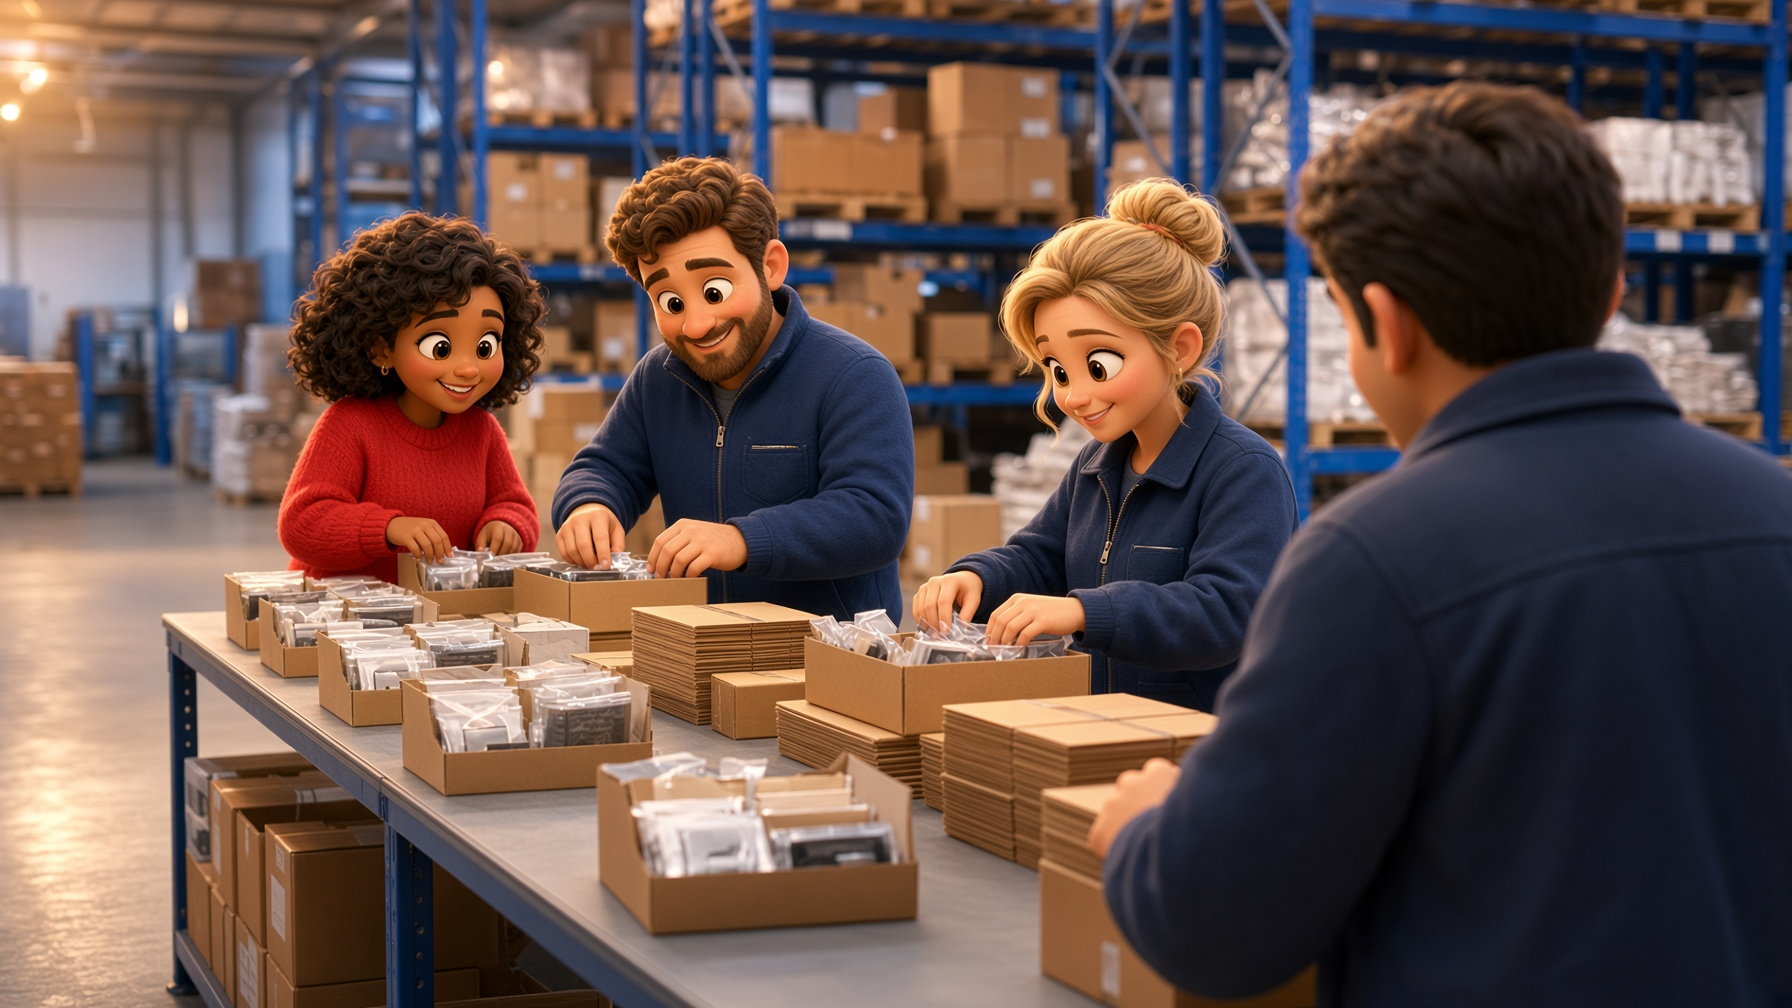
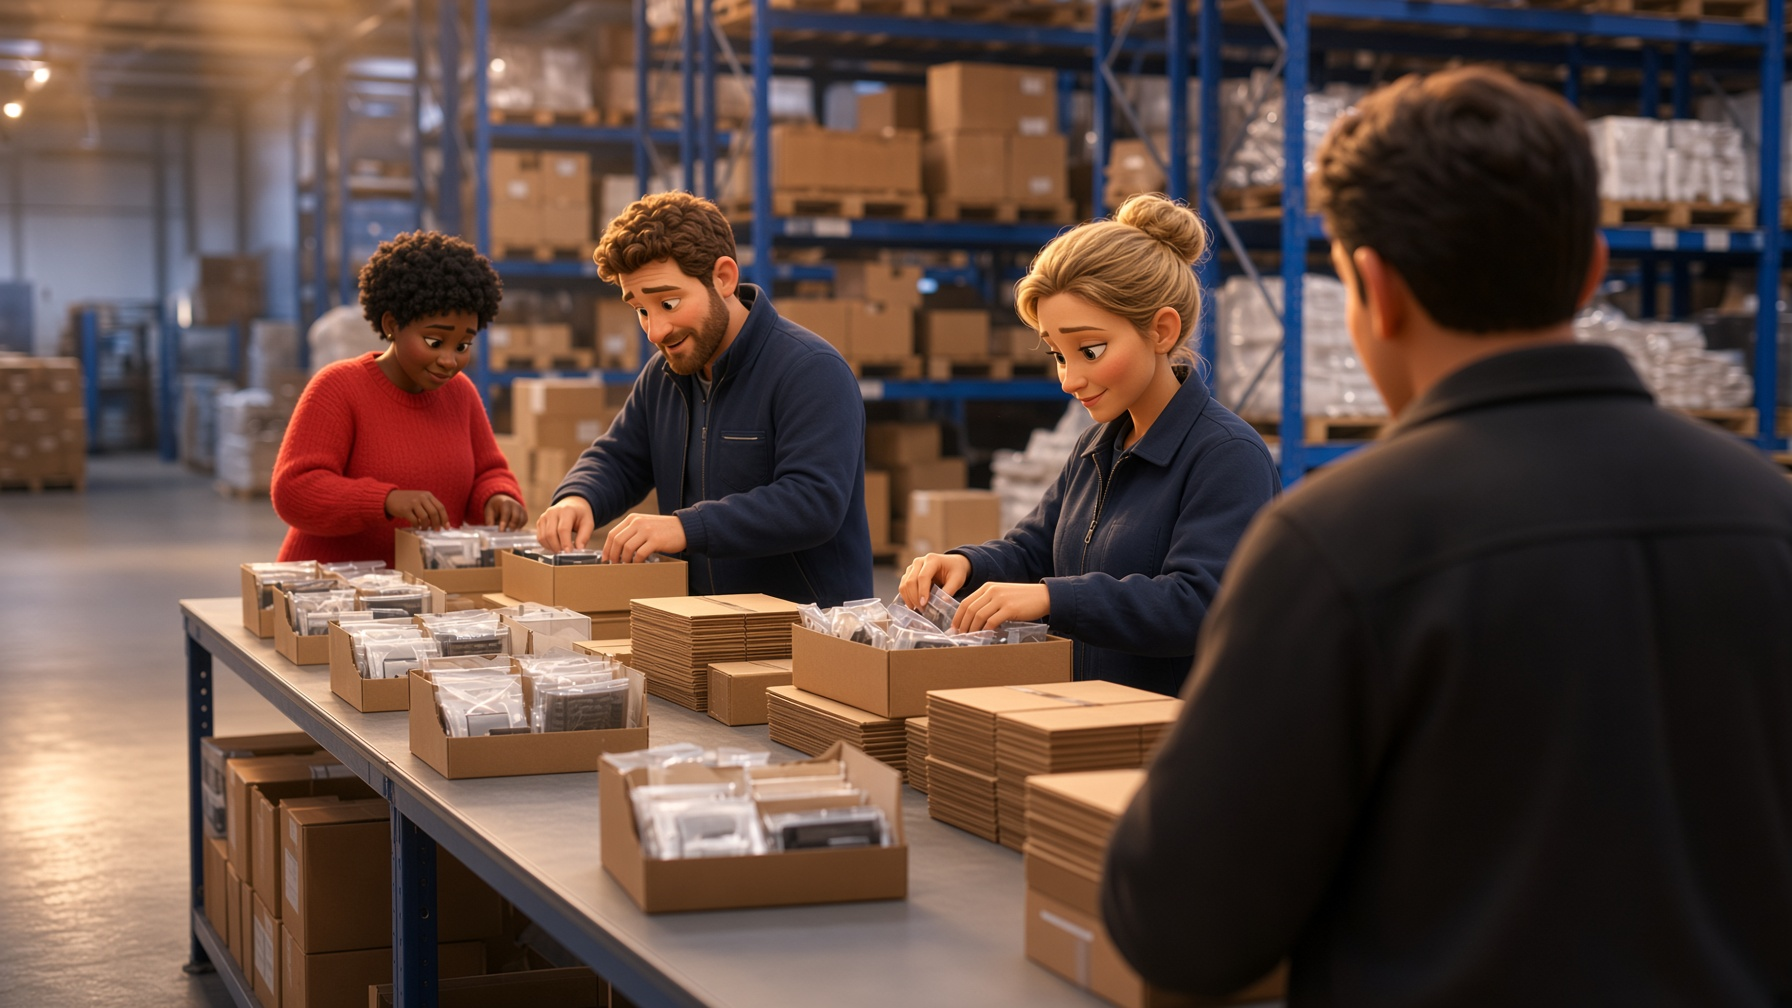
Keep the strong Pixar look on the hero only

diff --git a/src/lib/site.ts b/src/lib/site.ts
@@ -64,7 +64,7 @@ export const services: Service[] = [
     eyebrow: "Bestände steuern",
     teaser:
       "Fachboden, Palette, Blocklager – eingerichtet auf Ihre Artikelstruktur, nicht umgekehrt.",
-    image: "/images/warehouse-aisle.jpg?v=3",
+    image: "/images/warehouse-aisle.jpg?v=4",
     imageAlt: "Schmalganglager im ULD-Fulfillment-Lager im Hamburger Hafen",
     lead: "Ihre Ware liegt im Hamburger Hafen. Scanbasiert, zonenklar, jederzeit auskunftsfähig.",
     body: [
@@ -86,7 +86,7 @@ export const services: Service[] = [
     eyebrow: "Aufträge umsetzen",
     teaser:
       "Einzelstück, Karton oder Palette – kommissioniert, geprüft, versandfertig. Am selben Tag.",
-    image: "/images/pick-pack.jpg?v=3",
+    image: "/images/pick-pack.jpg?v=4",
     imageAlt:
       "Pick-and-Pack-Station: Kommissionierung und Versandfertigmachen bei ULD Hamburg",
     lead: "Jede Bestellung wird scanbasiert kommissioniert und nach Ihren Packregeln versandfertig gemacht.",
@@ -109,7 +109,7 @@ export const services: Service[] = [
     eyebrow: "Zustellung steuern",
     teaser:
       "Carrier nach Laufzeit und Kosten. Tracking zurück in Ihren Shop. Europaweit ab Hamburg.",
-    image: "/images/outbound.jpg?v=3",
+    image: "/images/outbound.jpg?v=4",
     imageAlt:
       "ULD-Fulfillment im Hamburger Hafen: Sattelzüge vor der Halle, Containerbrücken und Terminal im Hintergrund",
     lead: "Vom Packplatz an die Rampe, vom Hafen in die Fläche – mit festen Zeitfenstern und klarem Tracking.",
@@ -132,7 +132,7 @@ export const services: Service[] = [
     eyebrow: "Ware zurückführen",
     teaser:
       "Annahme, Prüfung, Wiedereinlagerung. Damit Retouren kein blinder Fleck in Ihrer Marge bleiben.",
-    image: "/images/returns.jpg?v=3",
+    image: "/images/returns.jpg?v=4",
     imageAlt: "Retourenbearbeitung bei ULD: Prüfung und Wiedereinlagerung im Hamburger Lager",
     lead: "Retouren nehmen wir strukturiert an, prüfen Zustand und Inhalt und führen einlagerungsfähige Ware kontrolliert zurück.",
     body: [
@@ -154,7 +154,7 @@ export const services: Service[] = [
     eyebrow: "Ware vorbereiten",
     teaser:
       "Umpacken, Etikettieren, Displays, Sets. Damit Kampagnen ohne Extra-Umlagerung starten.",
-    image: "/images/kitting.jpg?v=3",
+    image: "/images/kitting.jpg?v=4",
     imageAlt: "Kitting und Konfektionierung: Setbildung am Arbeitstisch im ULD-Lager Hamburg",
     lead: "Konfektionierung sitzt bei uns im Prozess – nicht in einem zweiten Lager am anderen Ende der Stadt.",
     body: [
@@ -176,7 +176,7 @@ export const services: Service[] = [
     eyebrow: "Ware hereinholen",
     teaser:
       "Container vom Terminal ins eigene Zolllager. Verzollen, wenn Sie wollen – nicht wenn der Hafen drängt.",
-    image: "/images/customs.jpg?v=3",
+    image: "/images/customs.jpg?v=4",
     imageAlt: "Containerterminal im Hamburger Hafen mit Anschluss an das ULD-Zolllager",
     lead: "Mit eigenem Zolllager im Hamburger Hafen senken Sie Terminalkosten und behalten den Takt.",
     body: [

diff --git a/src/routes/standort.tsx b/src/routes/standort.tsx
@@ -29,7 +29,7 @@ function Standort() {
         eyebrow={p.eyebrow}
         title={p.title}
         lead={interpolate(p.lead, { address: company.address, zip: company.zip })}
-        image="/images/hamburg-port.jpg?v=3"
+        image="/images/hamburg-port.jpg?v=4"
         imageAlt={p.imageAlt}
         crumbs={[
           { label: t.nav.home, href: "/" },
@@ -40,7 +40,7 @@ function Standort() {
       <section className="bg-cream">
         <div className="grid md:grid-cols-2">
           <AiImage
-            src="/images/customs.jpg?v=3"
+            src="/images/customs.jpg?v=4"
             alt={p.customsAlt}
             wrapperClassName="h-72 w-full md:h-full"
             className="size-full object-cover"
@@ -67,7 +67,7 @@ function Standort() {
         <div className="mx-auto grid max-w-7xl gap-10 px-5 md:grid-cols-2 md:px-8">
           <BrandBox size="lg">
             <AiImage
-              src="/images/inbound.jpg?v=3"
+              src="/images/inbound.jpg?v=4"
               alt={p.inboundAlt}
               className="h-80 w-full object-cover"
             />

diff --git a/src/routes/index.tsx b/src/routes/index.tsx
@@ -35,7 +35,7 @@ function Hero() {
   return (
     <section className="relative min-h-[100svh] overflow-hidden bg-navy-mid text-cream">
       <img
-        src="/images/hero-dock.jpg?v=3"
+        src="/images/hero-dock.jpg?v=4"
         alt={t.home.heroAlt}
         className="absolute inset-0 size-full object-cover object-[70%_center]"
       />
@@ -152,7 +152,7 @@ function Split() {
     <section className="bg-navy text-cream">
       <div className="grid md:grid-cols-2">
         <div className="relative min-h-[320px] md:min-h-[560px]">
-          <AiImage fill src="/images/warehouse-aisle.jpg?v=3" alt={t.home.splitAlt} />
+          <AiImage fill src="/images/warehouse-aisle.jpg?v=4" alt={t.home.splitAlt} />
         </div>
         <div className="relative flex flex-col justify-center overflow-hidden px-5 py-16 md:px-16 md:py-24">
           <span

diff --git a/src/routes/ablauf.tsx b/src/routes/ablauf.tsx
@@ -28,7 +28,7 @@ function Ablauf() {
         eyebrow={p.eyebrow}
         title={p.title}
         lead={p.lead}
-        image="/images/warehouse-aisle.jpg?v=3"
+        image="/images/warehouse-aisle.jpg?v=4"
         imageAlt={p.imageAlt}
         crumbs={[
           { label: t.nav.home, href: "/" },
@@ -55,7 +55,7 @@ function Ablauf() {
           <div className="mt-16">
             <BrandBox size="lg">
               <AiImage
-                src="/images/ops-manager.jpg?v=3"
+                src="/images/ops-manager.jpg?v=4"
                 alt={p.teamAlt}
                 className="aspect-video w-full object-cover"
               />

diff --git a/src/routes/kontakt.tsx b/src/routes/kontakt.tsx
@@ -28,7 +28,7 @@ function Kontakt() {
         eyebrow={p.eyebrow}
         title={p.title}
         lead={p.lead}
-        image="/images/inbound.jpg?v=3"
+        image="/images/inbound.jpg?v=4"
         imageAlt={p.imageAlt}
         crumbs={[
           { label: t.nav.home, href: "/" },
@@ -76,7 +76,7 @@ function Kontakt() {
 
             <BrandBox>
               <AiImage
-                src="/images/wms.jpg?v=3"
+                src="/images/wms.jpg?v=4"
                 alt={p.officeAlt}
                 wrapperClassName="mt-10 hidden md:block"
                 className="h-56 w-full object-cover"

diff --git a/src/routes/ueber-uns.tsx b/src/routes/ueber-uns.tsx
@@ -28,7 +28,7 @@ function About() {
         eyebrow={p.eyebrow}
         title={p.title}
         lead={p.lead}
-        image="/images/ops-manager.jpg?v=3"
+        image="/images/ops-manager.jpg?v=4"
         imageAlt={p.imageAlt}
         crumbs={[
           { label: t.nav.home, href: "/" },
@@ -54,7 +54,7 @@ function About() {
           </div>
           <BrandBox size="lg">
             <AiImage
-              src="/images/wms.jpg?v=3"
+              src="/images/wms.jpg?v=4"
               alt={p.officeAlt}
               className="h-[28rem] w-full object-cover object-top"
             />

diff --git a/src/routes/andreas-heffter.tsx b/src/routes/andreas-heffter.tsx
@@ -37,7 +37,7 @@ function AndreasHeffter() {
     <main>
       <section className="relative overflow-hidden bg-navy-mid pt-[4.5rem] md:pt-[5.5rem]">
         <AiImage
-          src="/images/uld-dynamic.png?v=3"
+          src="/images/uld-dynamic.png?v=4"
           alt="ULD-Lager: Scanvorgang im Schmalgang – Andreas Heffter, Warehouse Manager"
           className="aspect-[16/9] w-full object-cover object-center md:aspect-[21/9] md:max-h-[70vh]"
         />

diff --git a/src/routes/yasam-seyhan.tsx b/src/routes/yasam-seyhan.tsx
@@ -33,7 +33,7 @@ function YasamSeyhan() {
     <main>
       <section className="relative overflow-hidden bg-navy-mid pt-[4.5rem] md:pt-[5.5rem]">
         <AiImage
-          src="/images/uld-dynamic.png?v=3"
+          src="/images/uld-dynamic.png?v=4"
           alt="ULD-Lager: Scanvorgang im Schmalgang – Yasam Seyhan, ULD Fulfillment"
           className="aspect-[16/9] w-full object-cover object-center md:aspect-[21/9] md:max-h-[70vh]"
         />

diff --git a/src/routes/leistungen/index.tsx b/src/routes/leistungen/index.tsx
@@ -27,7 +27,7 @@ function Leistungen() {
         eyebrow={p.eyebrow}
         title={p.title}
         lead={p.lead}
-        image="/images/pick-pack.jpg?v=3"
+        image="/images/pick-pack.jpg?v=4"
         imageAlt={p.imageAlt}
         crumbs={[
           { label: t.nav.home, href: "/" },
